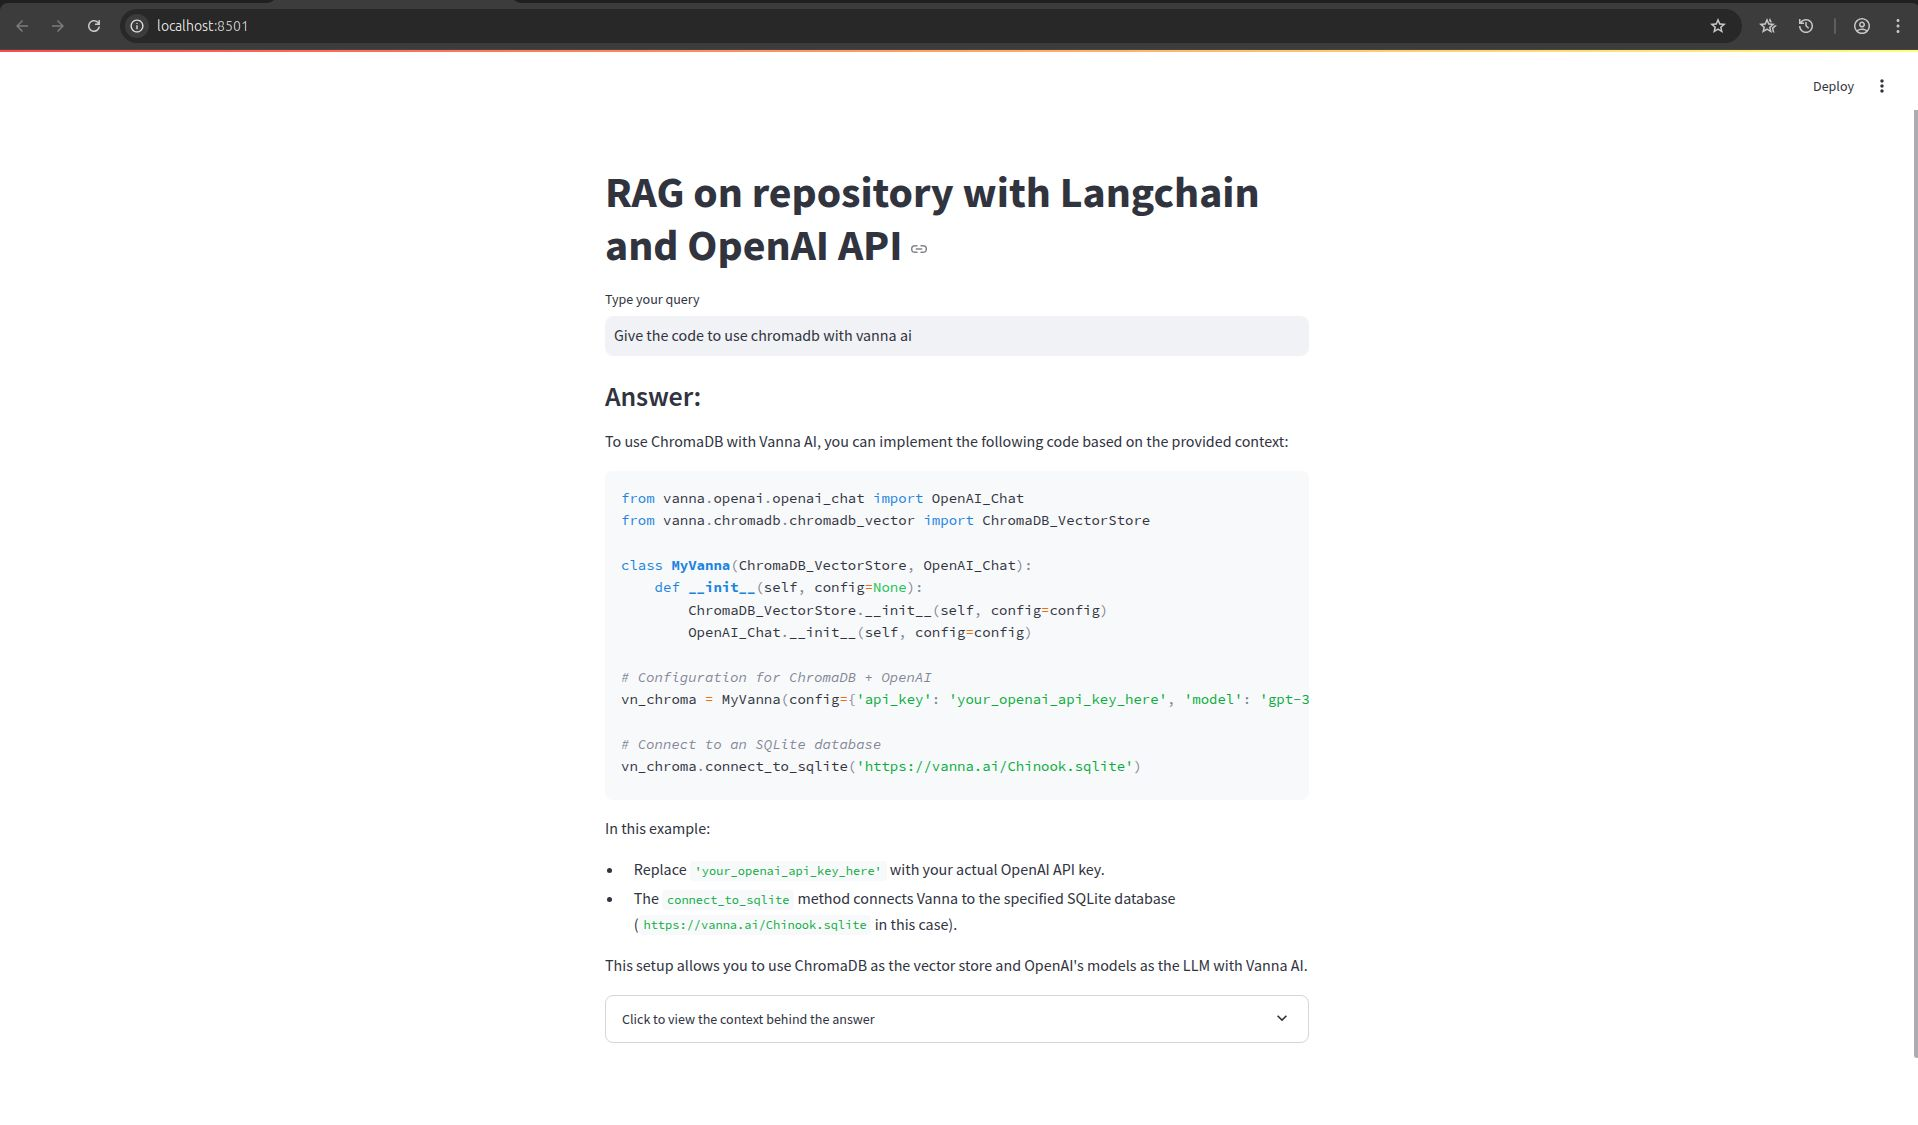
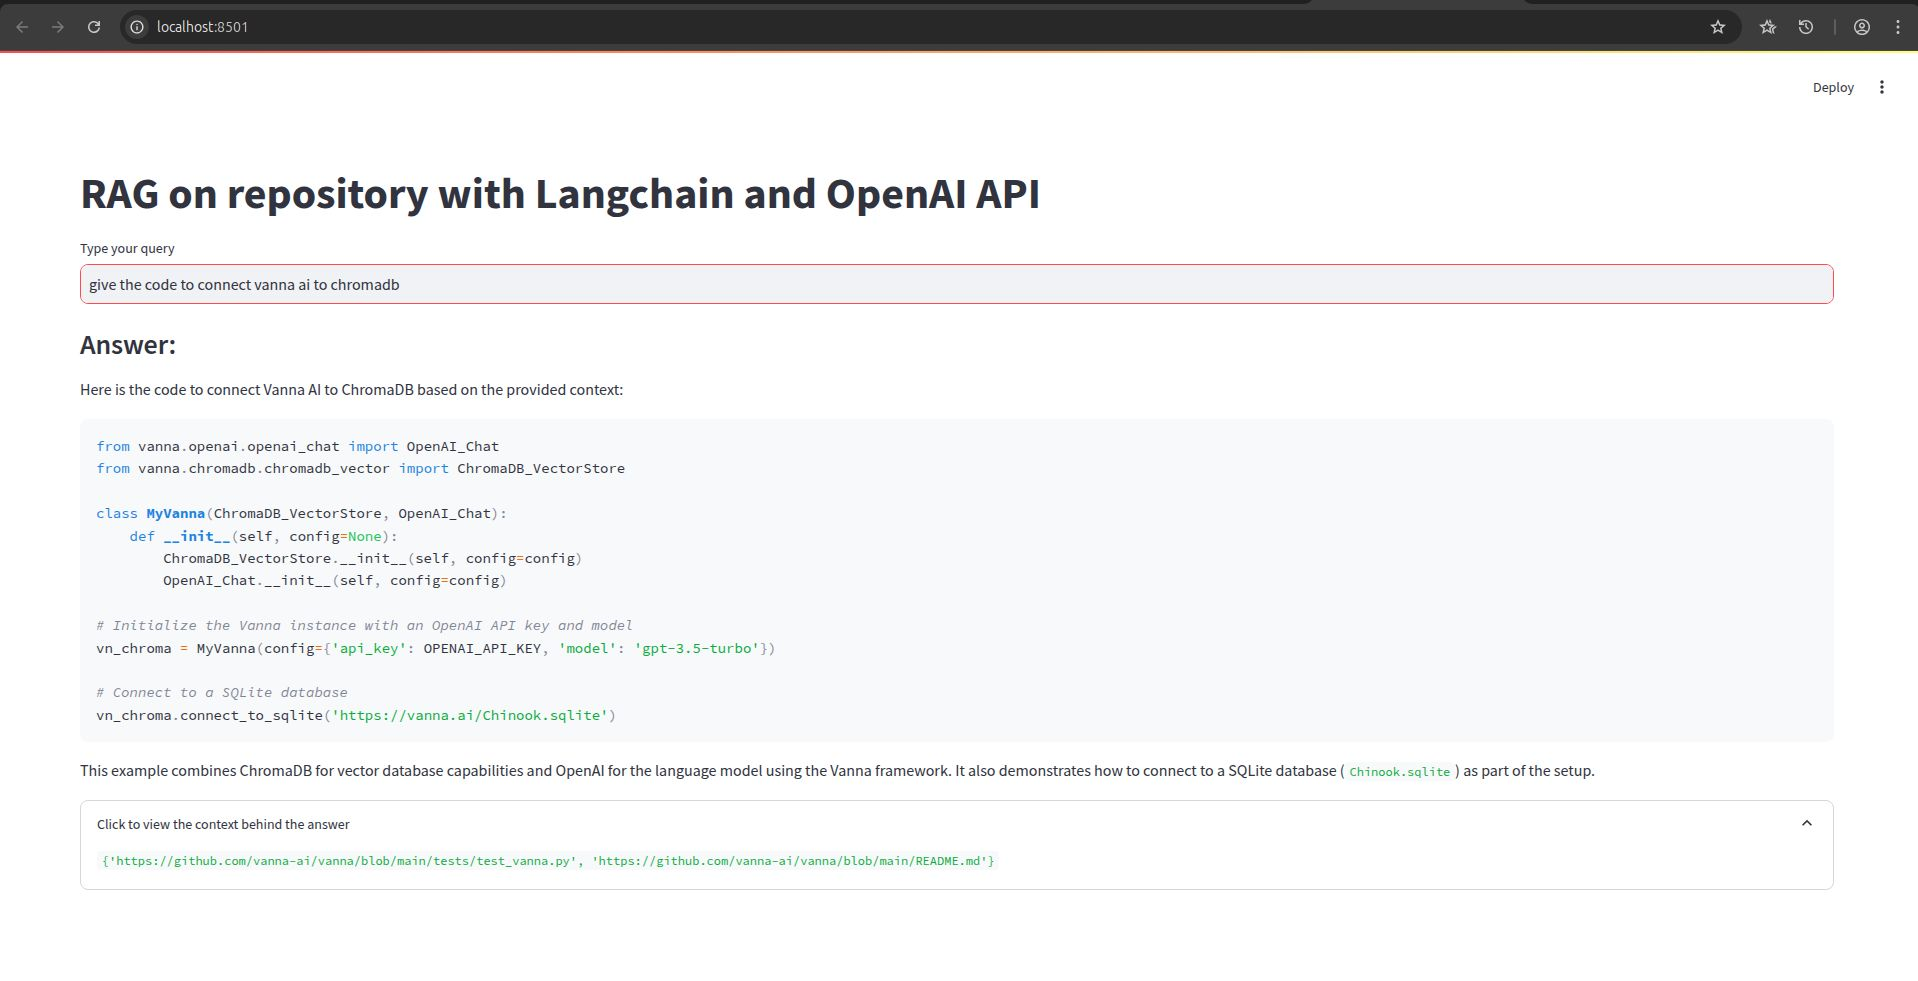
updated code for github links

diff --git a/app.py b/app.py
@@ -25,8 +25,15 @@ async def retrieve_chain(query: Query):
     try:
         # Run the retrieval chain with the input query
         response = retrieval_chain.invoke({"input": query.query})
-        return {"response": response}
+        links = [
+            context_link.metadata["source"]
+            .replace("repo", "https://github.com/vanna-ai/vanna/blob/main")
+            .replace("\\", "/")
+            for context_link in response["context"]
+        ]
+        return {"response": response, "github_links": links}
     except Exception as e:
+        print(e)
         raise HTTPException(status_code=500, detail=str(e))
 
 

diff --git a/client.py b/client.py
@@ -24,5 +24,5 @@ if input_text:
     st.write(result["response"]["answer"])
 
     with st.expander("Click to view the context behind the answer"):
-        st.write(result["response"]["context"])
+        st.write(set(result["github_links"]))
     st.write()

diff --git a/README.md b/README.md
@@ -6,24 +6,27 @@ A **RAG (Retrieval-Augmented Generation)** application that answers users' queri
 
 ## Explanation of Files
 
-### 1. `requirements.txt`
+### 1. `.env`
+- Contains the environment variables required to run the application.
+
+### 2. `requirements.txt`
 - Contains the Python packages required to run the application.
 
-### 2. `generate_embeddings.py`
+### 3. `generate_embeddings.py`
 - Generates embeddings for your documents and saves them to the specified `faiss_index` path.
 - Files with extensions `.py`, `.md`, and `.txt` were considered for generating the embeddings as they provide relevant knowledge about the repository.
 
-### 3. `server_llm.py`
+### 4. `server_llm.py`
 - Loads and initializes the embeddings, the language model (LLM), prompts, and the retrieval chain.
 
-### 4. `app.py`
+### 5. `app.py`
 - A FastAPI application that imports `server_llm.py` to create a POST route and expose the API.
 
-### 5. `client.py`
+### 6. `client.py`
 - Acts as a client application using **Streamlit**.
 - Builds a simple web interface to connect with the FastAPI backend and serve as a frontend to the user.
 
-### 6. `Dockerfile`
+### 7. `Dockerfile`
 - Contains the configuration to build a Docker image for the FastAPI application.
 
 ---
@@ -56,7 +59,11 @@ A **RAG (Retrieval-Augmented Generation)** application that answers users' queri
 
 ## How to Run the Application
 
-### Step 1: Generate Embeddings
+### Step 1: Set the Environment Variables
+Set the OpenAI key and endpoints to communicate with the OpenAI service.  
+Open the file named `.env` and populate it with your credentials.
+
+### Step 2: Generate Embeddings
 To generate embeddings based on new content from the repository, run the following command:
 
 ```python
@@ -67,7 +74,7 @@ This command will clone the repository if it is not already present and then gen
 
 **Note:** Pre-generated embeddings are already available and stored in the directory `faiss_index/`
 
-### Step 2: Build the Docker Image
+### Step 3: Build the Docker Image
 Run the following command to build a Docker image for the FastAPI application:
 
 ```bash
@@ -83,7 +90,7 @@ What this command will do:
 
 ---
 
-### Step 3: Run the Docker Container
+### Step 4: Run the Docker Container
 Start the Docker container with the following command:
 
 ```bash
@@ -94,7 +101,7 @@ This command runs the image as a container and exposes port `8000` on `localhost
 
 ---
 
-### Step 4: Run the Client Application
+### Step 5: Run the Client Application
 To start the web-based Streamlit frontend:
 
 1. Install Streamlit if it’s not already installed:
